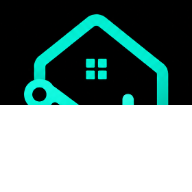
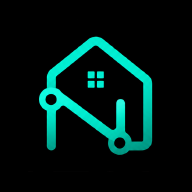
NEXO: corrige ícone da tela de início (recorte do emblema estava com faixa branca)
Os ícones eram gerados por screenshot do Chromium, que capturava antes
da imagem pintar e deixava o rodapé branco (ícone 'bugado' na tela de
início). Passa a recortar o emblema direto dos pixels do PNG original e
gera icon-180/192/512 com margem (any maskable), sem artefatos.

Claude-Session: https://claude.ai/code/session_01B9ewsNThR8V58cD6grAs4Z

diff --git a/financas-casa/index.html b/financas-casa/index.html
@@ -6,7 +6,7 @@
 <meta name="theme-color" content="#0b0b0b" />
 <title>NEXO — Finanças da sua casa</title>
 <link rel="icon" type="image/png" href="assets/nexo-emblem.png" />
-<link rel="apple-touch-icon" href="assets/icon-192.png" />
+<link rel="apple-touch-icon" href="assets/icon-180.png" />
 <link rel="manifest" href="manifest.webmanifest" />
 <meta name="apple-mobile-web-app-capable" content="yes" />
 <meta name="apple-mobile-web-app-status-bar-style" content="black" />
